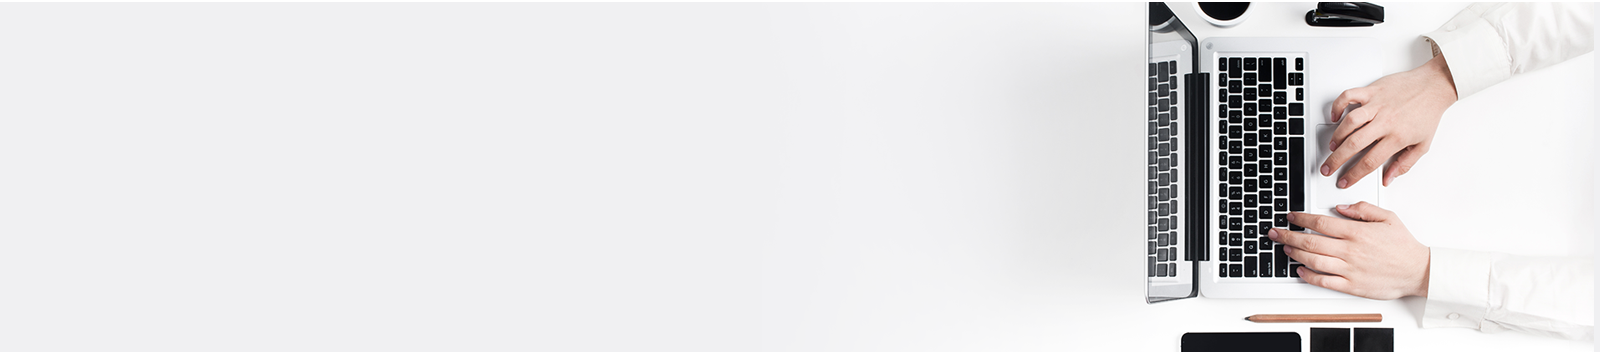
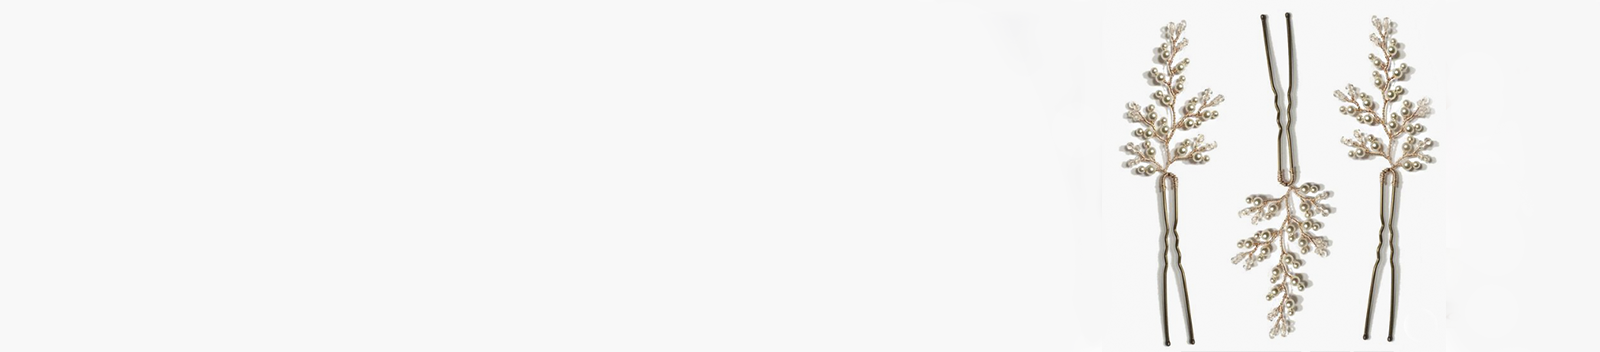
наполнение контентом
наполнение контентом

Changed region(s): [[0.6875, 0.0, 0.9688, 1.0], [0.9375, 0.125, 1.0, 0.2188]]

diff --git a/index.html b/index.html
@@ -47,21 +47,21 @@
                     <img src="img/bg-slider-1.png" class="d-block w-100" alt="">
                     <div class="carousel-caption d-none d-md-block">
                       <h5>Авторские украшения ЛИАНА</h5>
-                      <p>только натуральные материалы для вас</p>
+                      <p>Создайте неповторимый образ</p>
                     </div>
                   </div>
                   <div class="carousel-item">
                     <img src="img/bg-slider-2.png" class="d-block w-100" alt="">
                     <div class="carousel-caption d-none d-md-block">
-                      <h5>Second slide label</h5>
-                      <p>Minimal Freelance Portfolio</p>
+                      <h5>Стиль и женственность</h5>
+                      <p>Почувствуйте себя неотразимо</p>
                     </div>
                   </div>
                   <div class="carousel-item">
-                    <img src="img/bg-slider-1.png" class="d-block w-100" alt="">
+                    <img src="img/bg-slider-3.png" class="d-block w-100" alt="">
                     <div class="carousel-caption d-none d-md-block">
-                      <h5>Third slide label</h5>
-                      <p>Minimal Freelance Portfolio</p>
+                      <h5>Скидки в День Рождения</h5>
+                      <p>20% на все украшения</p>
                     </div>
                   </div>
                 </div>
@@ -82,26 +82,25 @@
                   <div class="mx-auto">
                       <ul class="menu_additional d-flex">
                           <li><a href="#">Все</a><img src="img/slash.png"></li>
-                          <li><a href="#">Золото</a><img src="img/slash.png"></li>
-                          <li><a href="#">Серебро</a><img src="img/slash.png"></li>
-                          <li><a href="#">Аметист</a><img src="img/slash.png"></li>
-                          <li><a href="#">Жемчуг</a><img src="img/slash.png"></li>
-                          <li><a href="#">Фиониты</a><img src="img/slash.png"></li>
-                          <li><a href="#">Топазы</a><img src="img/slash.png"></li>
+                          <li><a href="#">Серьги</a><img src="img/slash.png"></li>
+                          <li><a href="#">Браслеты</a><img src="img/slash.png"></li>
+                          <li><a href="#">Ожерелья</a><img src="img/slash.png"></li>
+                          <li><a href="#">Броши</a><img src="img/slash.png"></li>
+                          <li><a href="#">Для волос</a>
+                         
                       </ul>
                   </div>
               </div>
               <div class="masonry">
-                  <div class="item"><img src="img/01_home.png" class="img-fluid" alt=""></div>
-                  <div class="item"><img src="img/04_home.png"  class="img-fluid" alt=""></div>
-                  <div class="item"><img src="img/07_home.png" class="img-fluid" alt=""></div>
-                  <div class="item"><img src="img/02_home.png" class="img-fluid" alt=""></div>
-                  <div class="item"><img src="img/05_home.png" class="img-fluid" alt=""></div>
-                  <div class="item"><img src="img/08_home.png" class="img-fluid" alt=""></div>
-                  <div class="item"><img src="img/10_home.png" class="img-fluid" alt=""></div>
-                  <div class="item"><img src="img/03_home.png" class="img-fluid" alt=""></div>
-                  <div class="item"><img src="img/06_home.png" class="img-fluid" alt=""></div>
-                  <div class="item"><img src="img/09_home.png" class="img-fluid" alt=""></div>
+                  <div class="item"><img src="img/juvelir/1.png" class="img-fluid" alt=""></div>
+                  <div class="item"><img src="img/juvelir/3.png" class="img-fluid" alt=""></div>
+                  <div class="item"><img src="img/juvelir/4.png" class="img-fluid" alt=""></div>
+                  <div class="item"><img src="img/juvelir/5.png" class="img-fluid" alt=""></div>
+                  <div class="item"><img src="img/juvelir/6.png" class="img-fluid" alt=""></div>
+                  <div class="item"><img src="img/juvelir/7.png" class="img-fluid" alt=""></div>
+                  <div class="item"><img src="img/juvelir/8.png" class="img-fluid" alt=""></div>
+                  <div class="item"><img src="img/juvelir/9.png" class="img-fluid" alt=""></div>
+                  <div class="item"><img src="img/juvelir/10.png" class="img-fluid" alt=""></div>
               </div>
           </div>
       </section>

diff --git a/css/style.css b/css/style.css
@@ -50,6 +50,7 @@ input {
     margin-top: 13px;
     
 }
+
 .social {
     padding: 25px;
     margin-top: 45px;
@@ -105,10 +106,11 @@ input {
       color: #000;
   }
   .carousel-caption h5{
-    font-size: 48px;
+    font-size: 42px;
     text-transform: uppercase;
     color: #fff;
-    background: #000;
+    padding: 12px;
+    background: #777;
 }
   .carousel-caption {
     padding-left: 15%;
@@ -170,13 +172,15 @@ display: block;
 .heading h5,
 .projects h5,
 .heading-section h5 {
-    font-size: 46px;
+    font-size: 36px;
     text-transform: uppercase;
     color: #fff;
-    background: #000;
+    background: #777;
     letter-spacing: 2px;
     padding-left: 33px;
     padding-right: 36px;
+    padding-top: 8px;
+    padding-bottom: 8px;
 }
 
 .heading p,

diff --git a/projects.html b/projects.html
@@ -38,7 +38,7 @@
             <div class="container">
                 <div class="row">
                     <div class="col-md-6">
-                        <h5>Самые уникальные украшения</h5>
+                        <h5>Самые неповторимые украшения</h5>
                         <p>качество и красота на первом месте</p>
                     </div>
                 </div>
